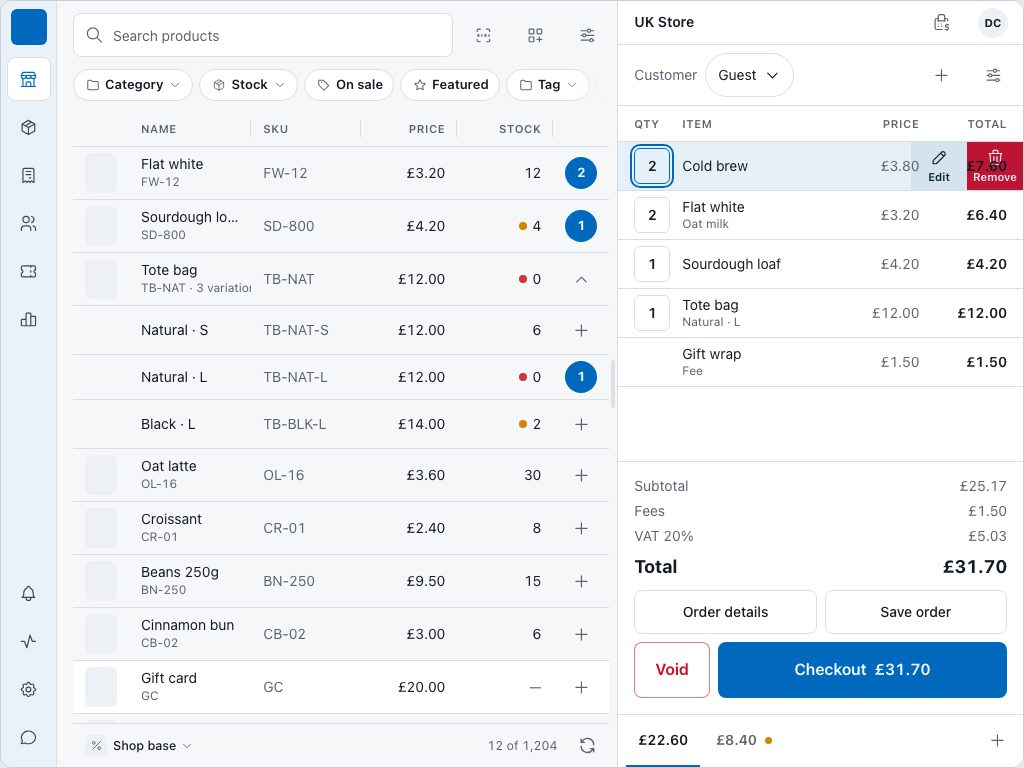
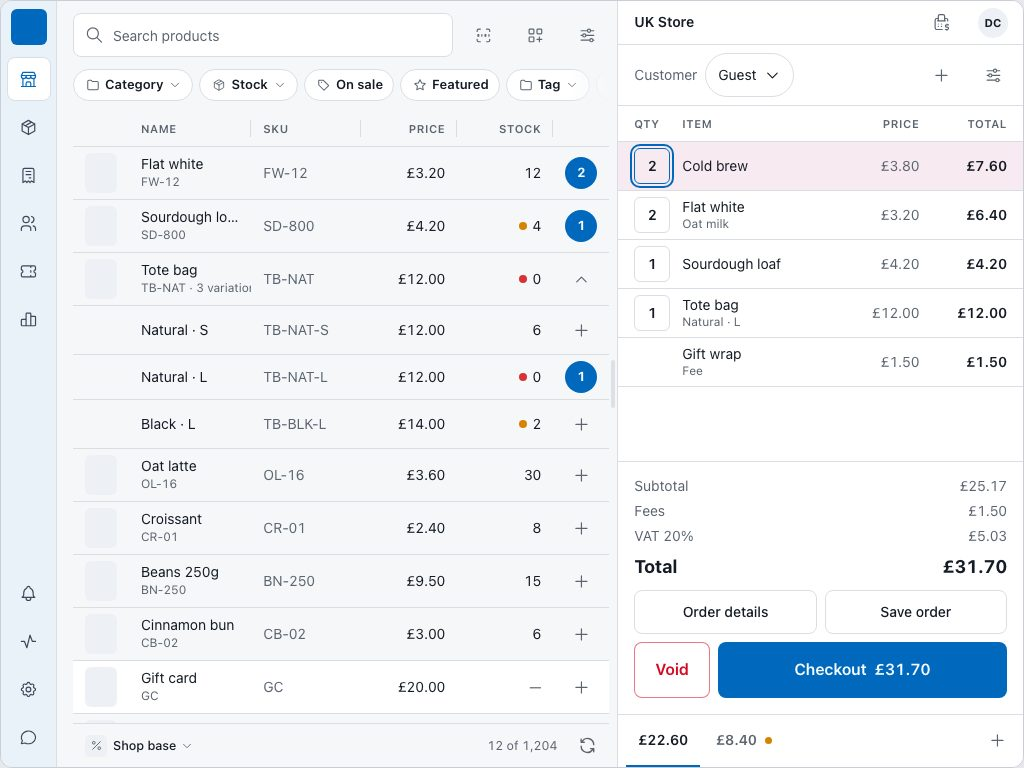
docs: the added-line tint is opaque so the strip under the line stays hidden; desktop click-open suppresses its click

Changed region(s): [[0.875, 0.1562, 1.0, 0.25]]

diff --git a/docs/prototypes/2026-09-12-language/pos-register/index.html b/docs/prototypes/2026-09-12-language/pos-register/index.html
@@ -186,7 +186,7 @@ body{margin:0;background:#e6e8ec;color:#111;font-family:-apple-system,BlinkMacSy
 .lines{flex:1;overflow:auto;min-height:0}
 .line{position:relative;border-bottom:var(--hair) solid var(--border);overflow:hidden;background:var(--card)}
 .line .lb{display:grid;grid-template-columns:var(--qty) 1fr var(--pricew) var(--totalw);align-items:center;gap:calc(var(--u)*3);min-height:max(var(--row),var(--floor));padding:calc(var(--u)*1.5) calc(var(--u)*4);background:var(--card);position:relative;z-index:1;transition:transform 200ms var(--ease),background-color 800ms var(--ease)}
-.line.settle .lb{background:color-mix(in oklch,var(--primary) 10%,transparent);transition:transform 200ms var(--ease)}
+.line.settle .lb{background:color-mix(in oklch,var(--primary) 10%,var(--card));transition:transform 200ms var(--ease)}   /* opaque: the edit/delete strip lives under every line */
 .line .q{min-width:var(--qty);height:calc(var(--ctl) - 8px);border:var(--hair) solid var(--border);border-radius:calc(var(--r) - 2px);display:inline-flex;align-items:center;justify-content:center;font-weight:600;padding:0 calc(var(--u)*2)} .line .q.ring{border-color:var(--ring)}
 .line .n{line-height:1.3;min-width:0} .line .n .t{display:block} .line .n .sub{display:block;color:var(--muted-fg);font-size:calc(var(--fs)*.86)}
 .line .pr{text-align:right;color:var(--muted-fg)} .line .tot{text-align:right;font-weight:600;cursor:grab;touch-action:pan-y;user-select:none;padding:calc(var(--u)*2) 0 calc(var(--u)*2) calc(var(--u)*3);margin:calc(var(--u)*-2) 0 calc(var(--u)*-2) calc(var(--u)*-3)}
@@ -957,7 +957,7 @@ document.addEventListener('pointerdown',e=>{
   const move=ev=>{ dx=Math.min(0,Math.max(-(w+140),ev.clientX-x0-(open?w:0))); if(Math.abs(ev.clientX-x0)>3) moved=true; lb.style.transform=`translateX(${dx}px)`; };
   const up=()=>{ ln.removeEventListener('pointermove',move); ln.removeEventListener('pointerup',up); ln.removeEventListener('pointercancel',up); ln.classList.remove('drag'); lb.style.transform='';
     if(moved){ S.dragged=true; setTimeout(()=>{ S.dragged=false; },250); }
-    if(!moved){ if(S.w==='desktop'){ S.reveal = open?null:i; render(); } return; }
+    if(!moved){ if(S.w==='desktop'){ S.reveal = open?null:i; S.dragged=true; setTimeout(()=>{ S.dragged=false; },250); render(); } return; }
     if(dx < -(w+80)){ ln.classList.add('going'); setTimeout(()=>{ document.querySelector(`.line[data-i="${i}"] .acts .del`)?.click(); },170); }
     else if(dx < -(w/2)){ S.reveal=i; render(); } else { S.reveal=null; render(); } };
   ln.addEventListener('pointermove',move); ln.addEventListener('pointerup',up); ln.addEventListener('pointercancel',up);
